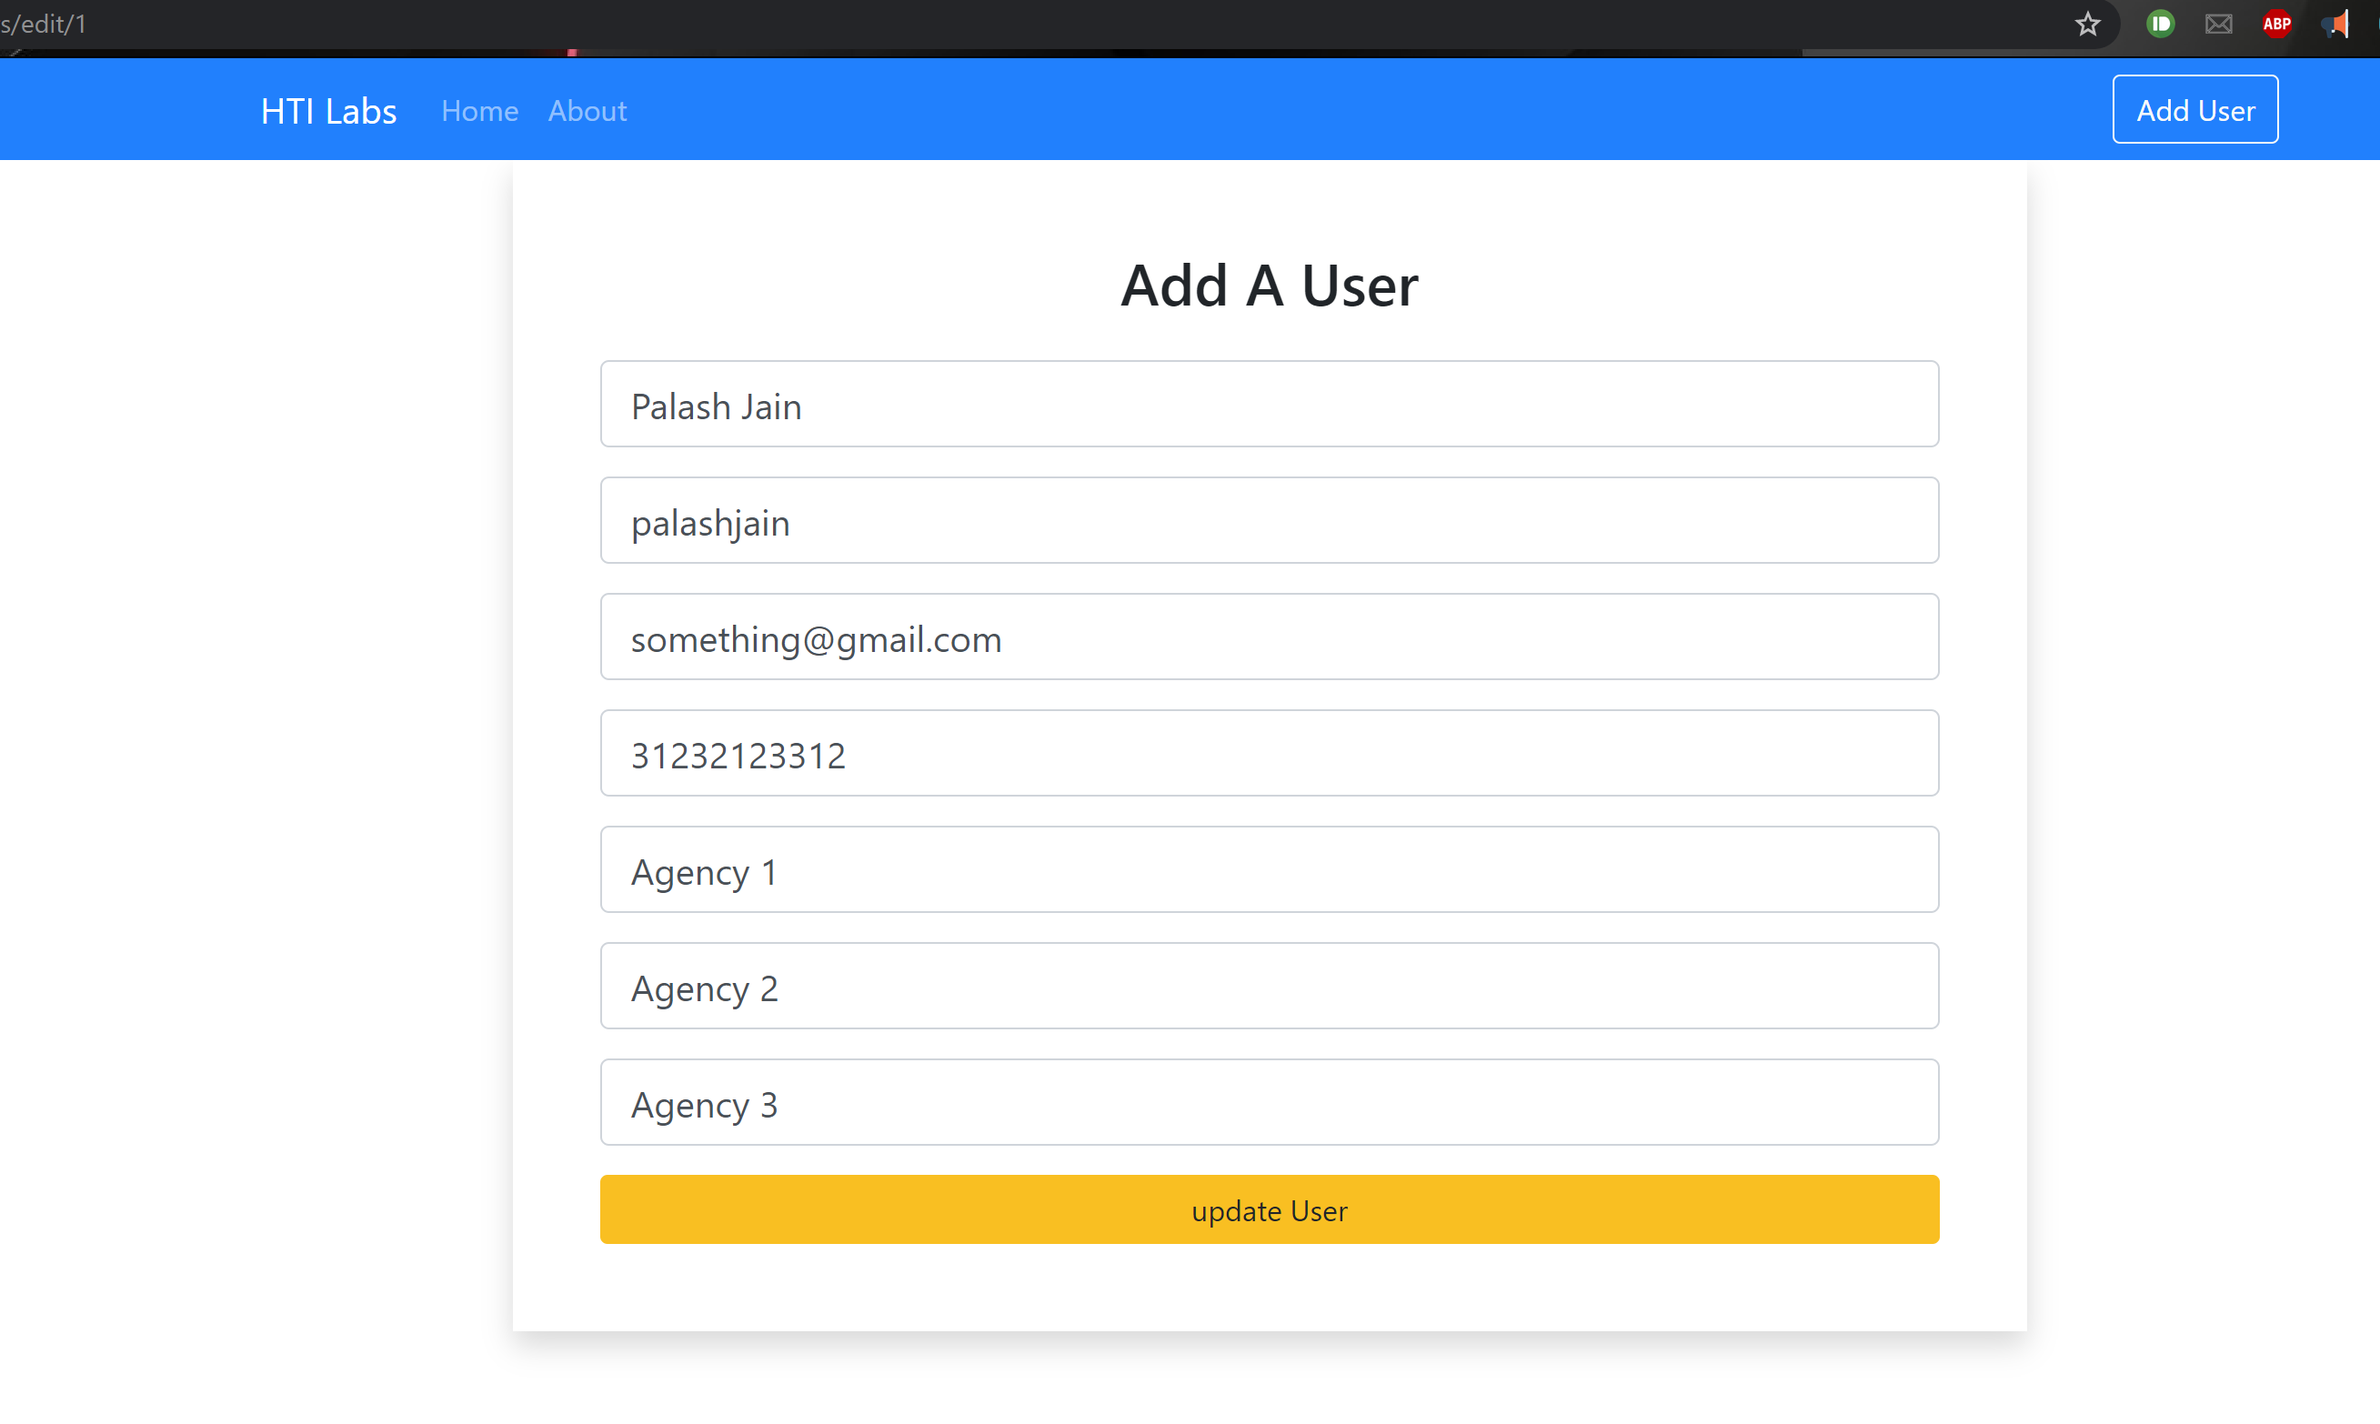
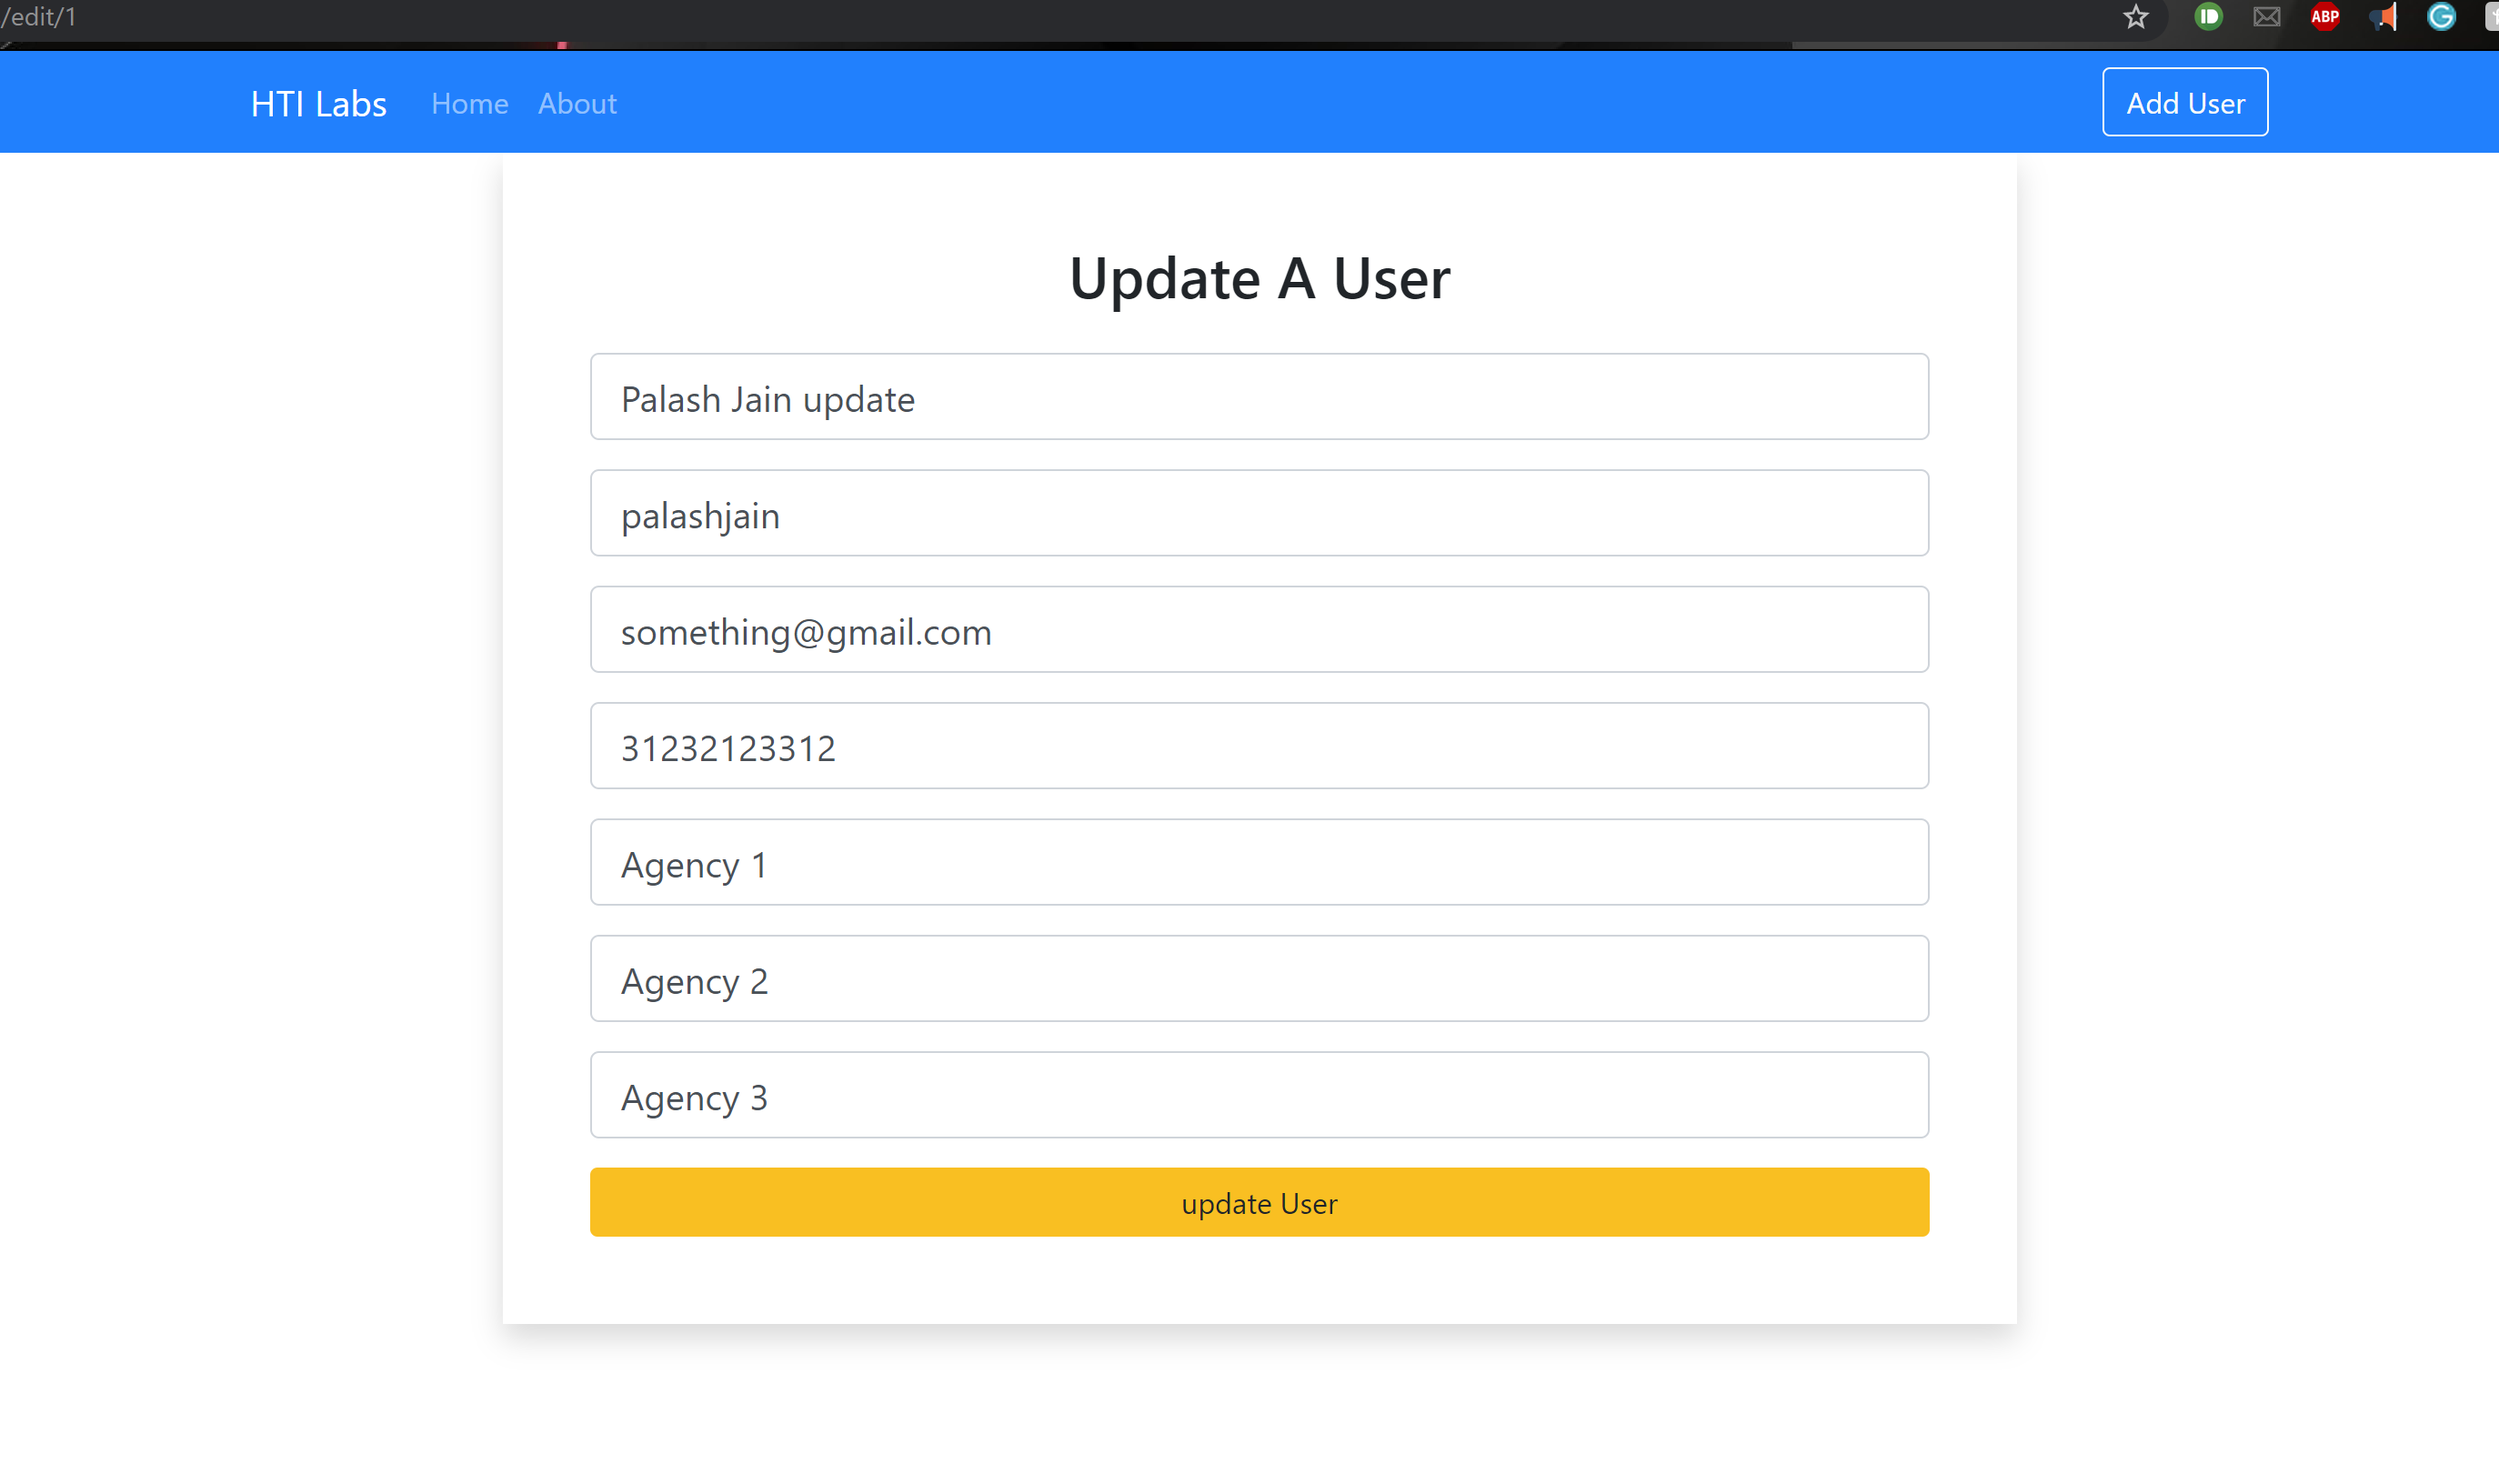
udpate edit

diff --git a/src/components/users/EditUser.js b/src/components/users/EditUser.js
@@ -37,7 +37,7 @@ const EditUser = () => {
   return (
     <div className="container">
     <div className="w-75 mx-auto shadow p-5">
-      <h2 className="text-center mb-4">Add A User</h2>
+      <h2 className="text-center mb-4">Update A User</h2>
       <form onSubmit={e => onSubmit(e)}>
         <div className="form-group">
           <input
